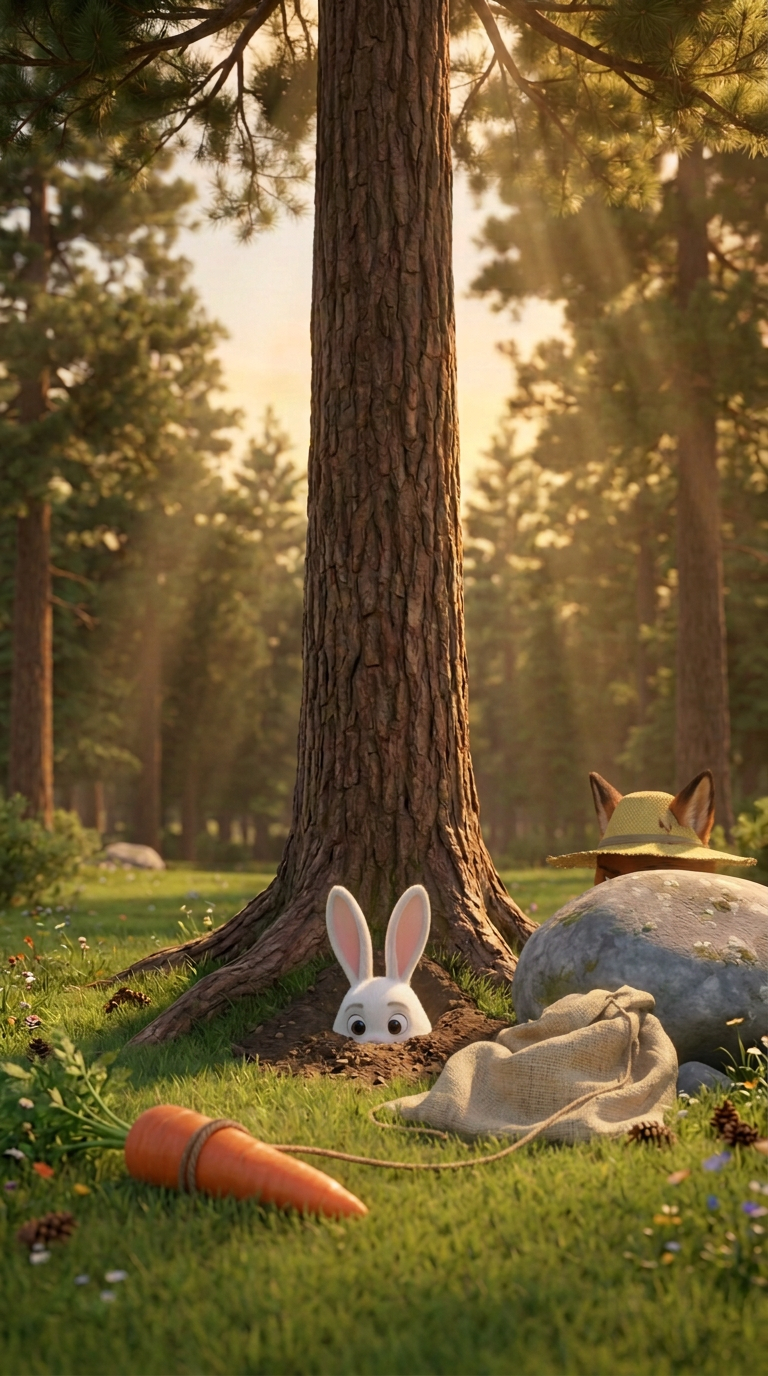
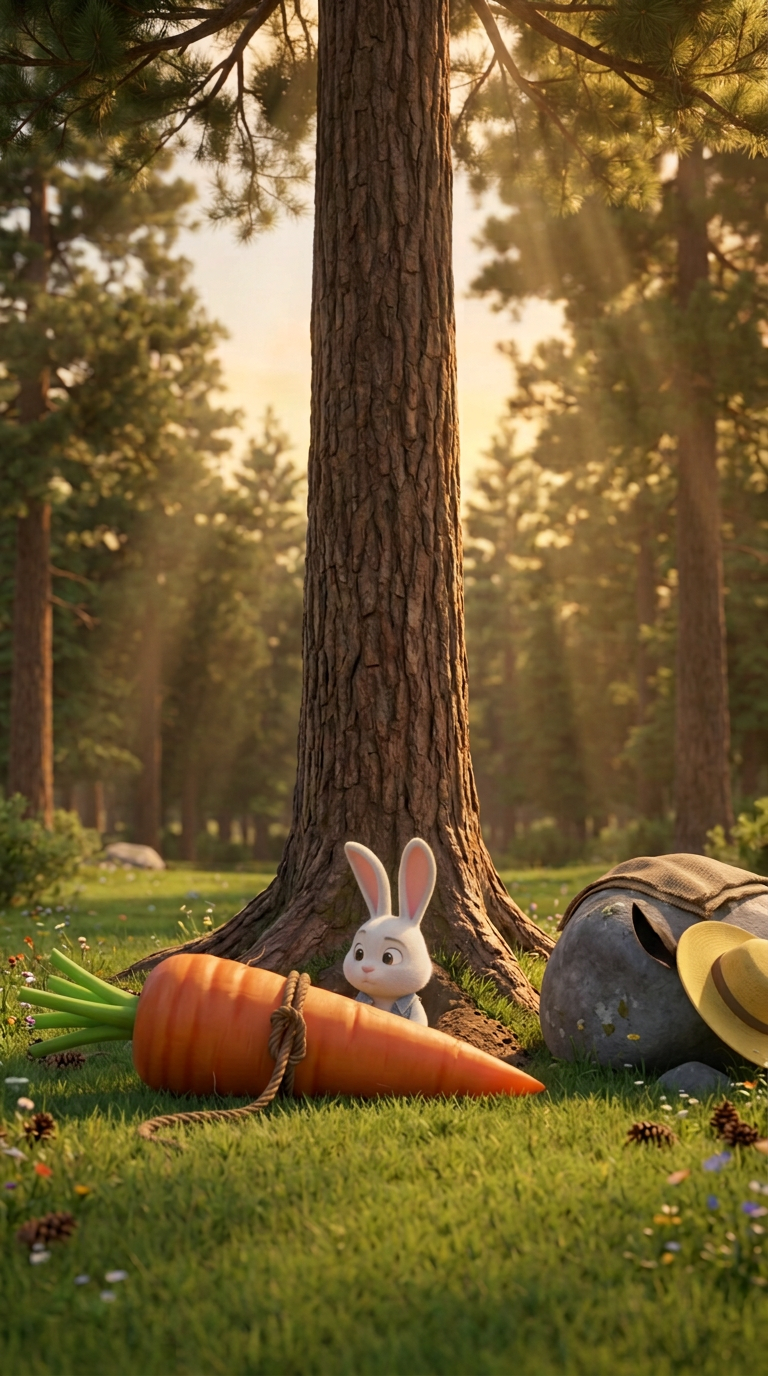
V3.2: SC02/KF04 carrot scaled to match · SC03 sack restored on boulder · SC05 carrot lying flat

Changed region(s): [[0.0, 0.5625, 1.0, 0.9062]]

diff --git a/README.md b/README.md
@@ -177,13 +177,13 @@ no realistic photo, no injuries, no blood
 
 ---
 
-## 📥 التحميل — V3
+## 📥 التحميل — V3.2
 
 ### ⭐ زيب واحد: برومبتات + مشاهد + مراجع
 
-**https://github.com/latchidz/CARROT-TRAP/releases/download/v3.1/CARROT_TRAP_EP01_V3_PROMPTS_AND_SCENES.zip**
+**https://github.com/latchidz/CARROT-TRAP/releases/download/v3.2/CARROT_TRAP_EP01_V32_PROMPTS_AND_SCENES.zip**
 
-`35 ملف · 45.3 MB`
+`35 ملف · 46.4 MB`
 
 ```
 CARROT_TRAP_EP01/
